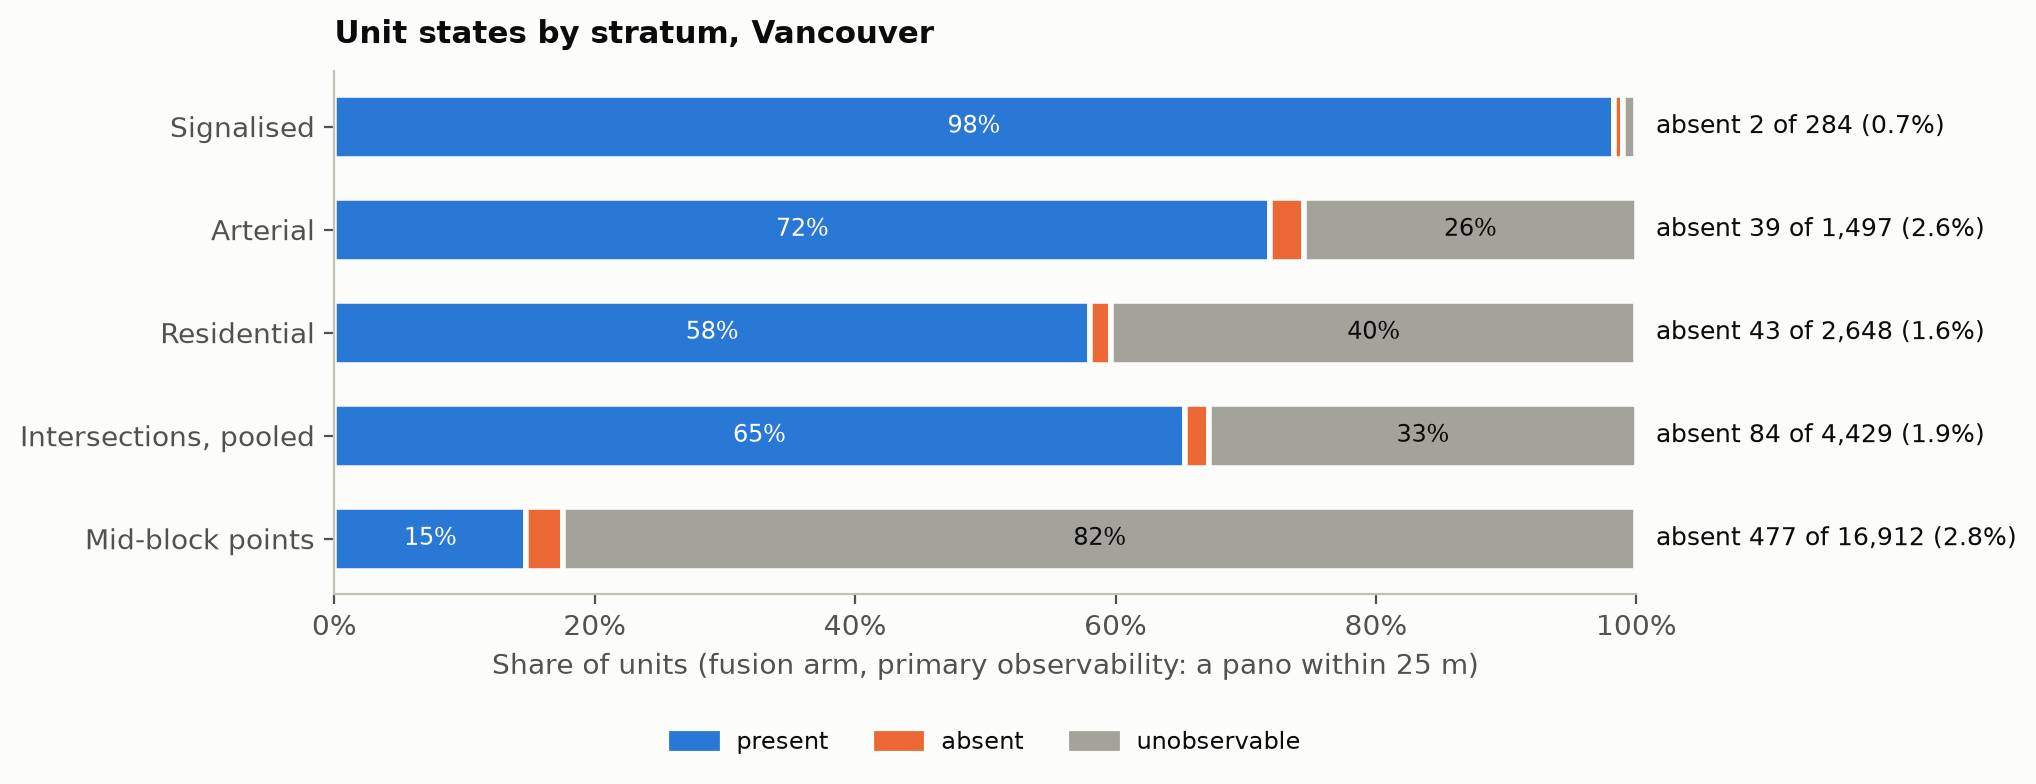
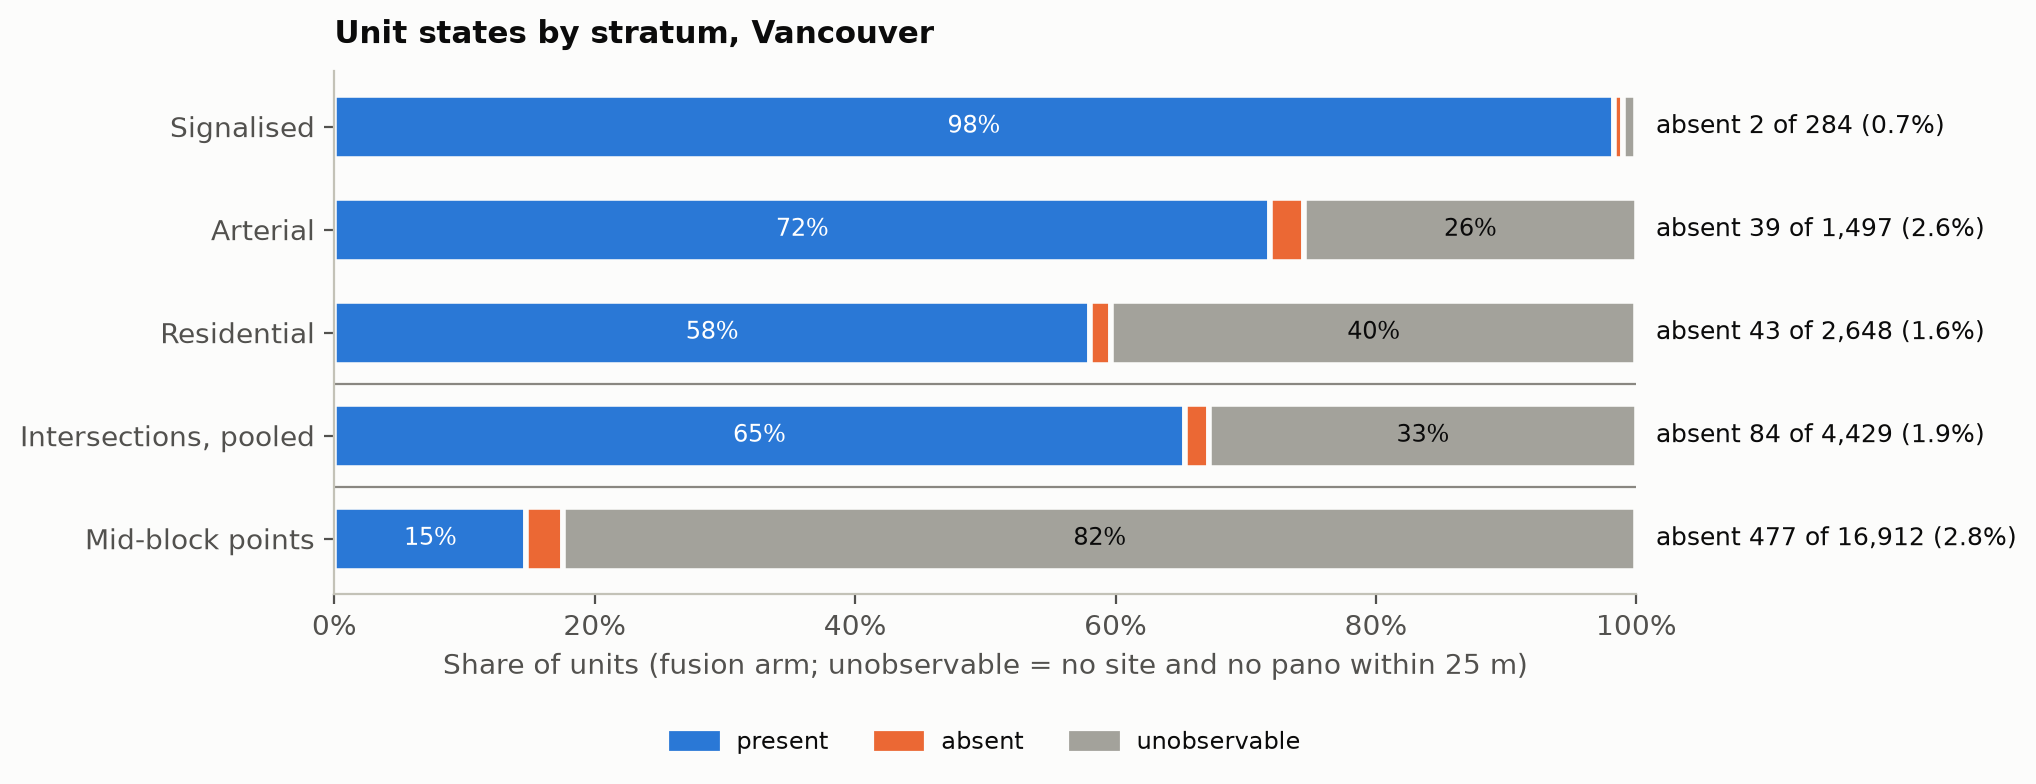
review nits (#132 final): 1,453 = unobservable units, captions answer, pooled-row rules
Takeaway 3 and Fig 1's x-label said 1,453 units have no pano within 25 m; per decision.json 1,478 do (1,453 unobservable + 25 present). Both now say what is exactly true. Fig 1 and Fig 2 captions open with the question and its answer, and Fig 1 draws a rule above and below the pooled-intersections row so it reads as a total. Figures regenerated; run-twice byte-identical; data CSVs unchanged.

Changed region(s): [[0.2166, 0.8265, 0.7426, 0.8571]]

diff --git a/scripts/corner_inventory.py b/scripts/corner_inventory.py
@@ -1566,10 +1566,15 @@ def fig_unit_states(plt, rows, fig_dir):
         ax.text(1.015, y, f"absent {r['absent']:,} of {r['n']:,} ({r['share_absent']:.1%})",
                 transform=ax.get_yaxis_transform(), va='center', ha='left', fontsize=9,
                 color=INK)
+    # The pooled row is the sum of the three strata above it: a rule above it marks it as a
+    # total rather than a peer, and one below it keeps mid-block (another unit kind) out of it.
+    pooled_y = ys[[r['stratum'] for r in rows].index('intersections')]
+    for dy in (0.5, -0.5):
+        ax.axhline(pooled_y + dy, color=MUTED, lw=0.8)
     ax.set_yticks(ys, [f"{FIG_STRATUM_LABEL[r['stratum']]}" for r in rows])
     ax.set_xlim(0, 1)
     ax.xaxis.set_major_formatter(plt.FuncFormatter(lambda v, _: f'{v:.0%}'))
-    ax.set_xlabel('Share of units (fusion arm, primary observability: a pano within 25 m)')
+    ax.set_xlabel('Share of units (fusion arm; unobservable = no site and no pano within 25 m)')
     ax.set_title('Unit states by stratum, Vancouver', pad=10)
     handles = [plt.Rectangle((0, 0), 1, 1, color=colour[s], label=s) for s in STATES]
     ax.legend(handles=handles, loc='upper center', bbox_to_anchor=(0.5, -0.22), ncol=3,

diff --git a/docs/corner-inventory.md b/docs/corner-inventory.md
@@ -18,7 +18,8 @@ Issue: [RampNet#238](https://github.com/ProjectSidewalk/RampNet/issues/238).
 >    row `unit,intersections,all,deployed,primary`, 1 − `absent_false`/`n_absent`.*
 > 3. **The pano set is selected on the outcome.** 26,930 of the run's 28,830 panos carry a
 >    detection >= 0.55, and 29 of the 84 absent units are reached only through the 300 random
->    unlabeled panos; 1,453 of 4,429 units have no pano within 25 m. *Figure 1;
+>    unlabeled panos; 1,453 of 4,429 units are unobservable (no site and no pano within
+>    25 m; 25 more have no pano within 25 m but are present). *Figure 1;
 >    `decision.json` `selection.run_panos_with_det_ge_tier`, `selection.run_panos`,
 >    `selection.absent_units_by_pano_kind`, `selection.unit_state_by_pano_kind`.*
 > 4. **A history pass is about 74,000 historical panos, and 36.5% of today's ids are gone.**
@@ -402,7 +403,11 @@ This finding governs every absence number.
 
 ![Figure 1. Horizontal 100% stacked bars of unit states, fusion arm, primary observability. Signalised: 98% present, 2 of 284 absent (0.7%). Arterial: 72% present, 39 of 1,497 absent (2.6%), 26% unobservable. Residential: 58% present, 43 of 2,648 absent (1.6%), 40% unobservable. Intersections pooled: 65% present, 84 of 4,429 absent (1.9%), 33% unobservable. Mid-block points: 15% present, 477 of 16,912 absent (2.8%), 82% unobservable.](figures/corner-inventory/fig1_unit_states.png)
 
-*Figure 1. Unit states by stratum (fusion arm, primary observability). Data:
+*Figure 1. How often does the detector call a unit absent, and how much can it not see? Absent
+is at most 2.8% of units in every stratum, while unobservable grows from 1% (signalised) to
+26% (arterial), 40% (residential) and 82% (mid-block). Fusion arm, primary observability (a
+unit is unobservable when it has no site and no pano within 25 m); the pooled row is the sum
+of the three intersection strata above it. Data:
 `docs/figures/corner-inventory/data/fig1_unit_states.csv`, from `counts.csv` rows
 `unit,<stratum>,all,fusion,primary`. [SVG](figures/corner-inventory/fig1_unit_states.svg).*
 
@@ -450,8 +455,10 @@ there.
 
 ![Figure 2. Dot-and-interval plot of four unit-level absence-precision reads against a dashed decision line at 0.90. Fusion clean read, the pre-registered rule: 46 of 84, 0.548, interval 0.441 to 0.650, well below the line. Fusion no-Available read: 75 of 84, 0.893, interval 0.809 to 0.943, straddling the line. Deployed clean read: 42 of 81, 0.519, interval 0.411 to 0.624. Deployed no-Available read: 73 of 81, 0.901, interval 0.817 to 0.949, straddling the line.](figures/corner-inventory/fig2_absence_precision.png)
 
-*Figure 2. Unit-level absence precision, intersections pooled, primary observability, Wilson
-95% intervals; the 0.90 decision line applies to the top row only. Data:
+*Figure 2. Does the pre-registered absence read reach 0.90? No: 46/84 = 0.548, with its whole
+interval below the line; the two no-Available reads straddle it. Unit-level absence
+precision, intersections pooled, primary observability, Wilson 95% intervals; the 0.90
+decision line applies to the top row only. Data:
 `docs/figures/corner-inventory/data/fig2_absence_precision.csv`, from `counts.csv` rows
 `unit,intersections,all,<arm>,primary` (cross-checked against `decision.json` on every
 redraw). [SVG](figures/corner-inventory/fig2_absence_precision.svg).*
